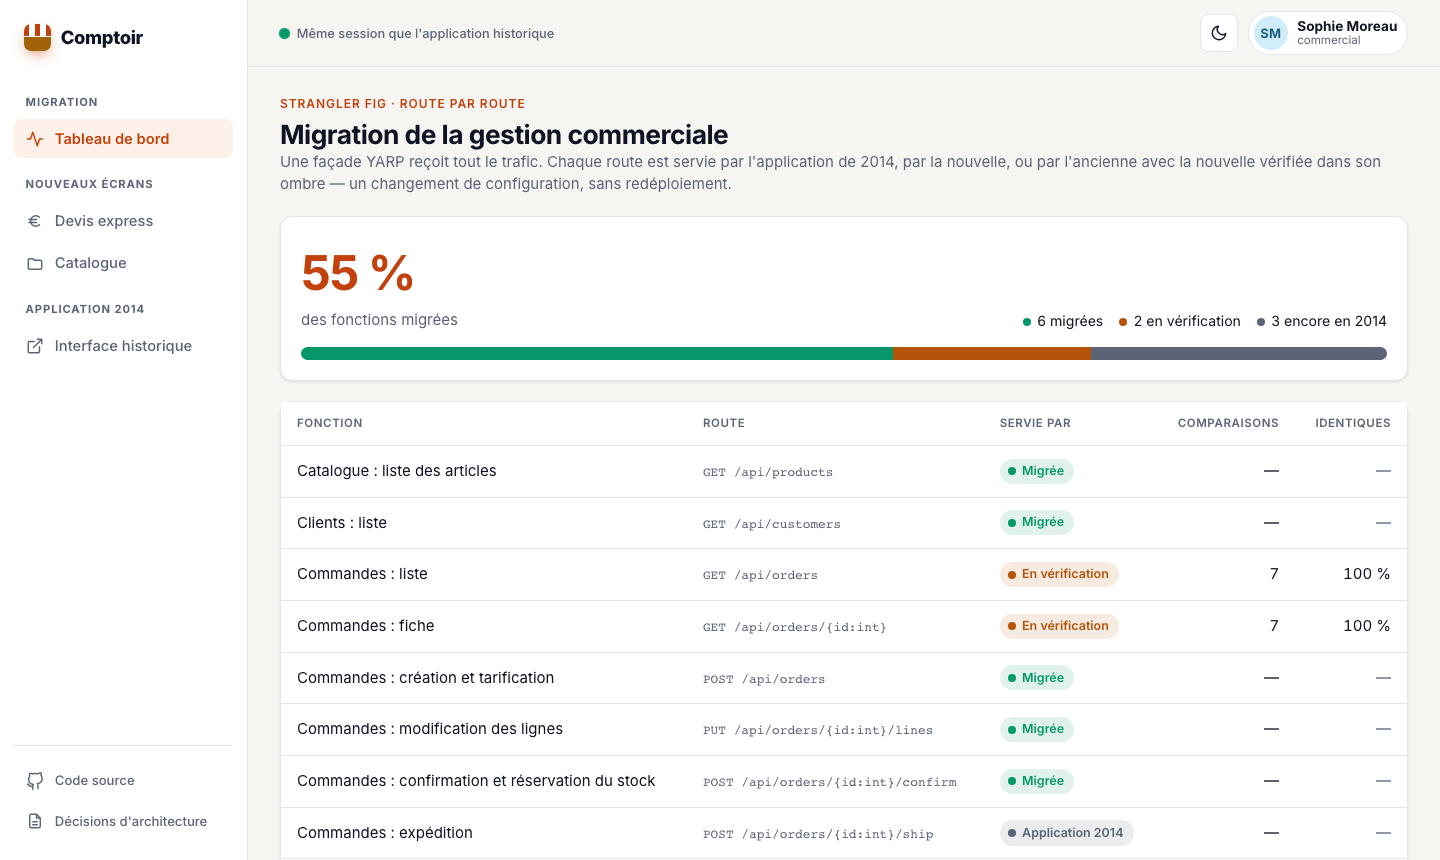
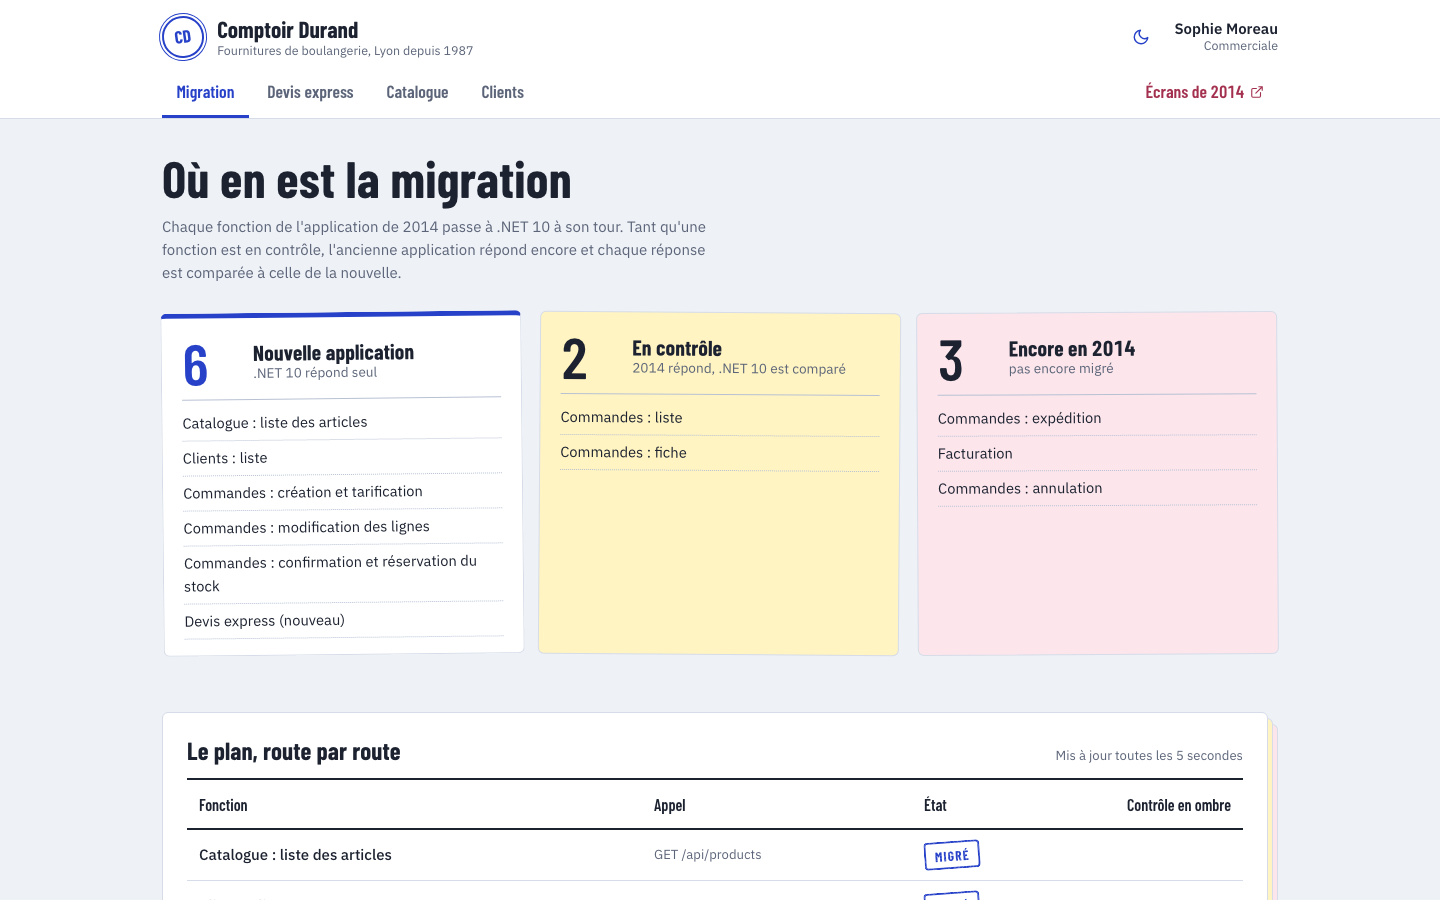
docs: screenshots of the new design

diff --git a/README.md b/README.md
@@ -20,12 +20,12 @@ differential tests and every switch backed by shadow traffic.
 
 <table>
   <tr>
+    <td width="50%"><img src="docs/images/quote.png" alt="Express quote as a delivery slip"></td>
     <td width="50%"><img src="docs/images/legacy-orders.png" alt="The 2014 AngularJS screens, still in use, served through the facade"></td>
-    <td width="50%"><img src="docs/images/quote.png" alt="New express quote, priced by the ported rules"></td>
   </tr>
   <tr>
-    <td align="center"><sub>The 2014 screens, unchanged, now partly answered by .NET 10</sub></td>
     <td align="center"><sub>New: an express quote the legacy could not do</sub></td>
+    <td align="center"><sub>The 2014 screens, unchanged, now partly answered by .NET 10</sub></td>
   </tr>
 </table>
 
